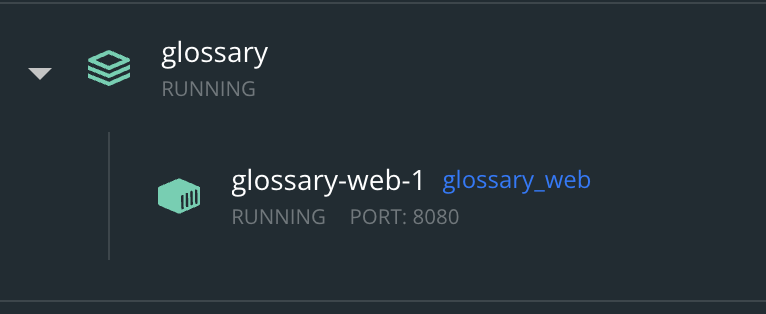
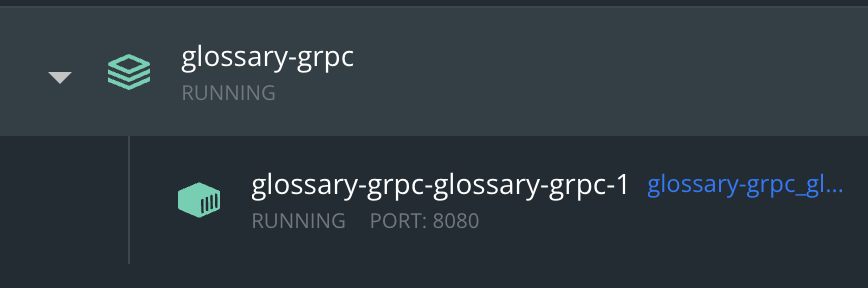
feat: update Readme with images

diff --git a/README.md b/README.md
@@ -1,6 +1,6 @@
-# Глоссарий на FastAPI
+# Глоссарий на gRPC
 
-Этот проект представляет собой REST API для управления глоссарием с использованием FastAPI и SQLite. Он позволяет добавлять, изменять, удалять и получать термины в глоссарии.
+Этот проект представляет собой gRPC для управления глоссарием с использованием gRPC и SQLite. Он позволяет добавлять, изменять, удалять и получать термины в глоссарии.
 
 Использование SQLite позволяет не запускать отдельный контейнер с базой данных
 
@@ -13,10 +13,11 @@
 2. Запустите сервис:
 
 ```bash
-docker compose -p glossary up -d
+docker compose -p glossary-grpc up -d
 ```
 
-Приложение будет доступно по адресу: `http://localhost:8080`
+Приложение будет доступно по адресу: `localhost:8080`
+Запросы к приложение нужно выполнять через grpc, например, используя клиент console_client.py
 
 ## Внутри базы данных
 
@@ -26,11 +27,12 @@ docker compose -p glossary up -d
 
 Приложение поддерживает следующие операции:
 
-- **Получение списка всех терминов**: Возможность просмотра полного перечня терминов, доступных в глоссарии.
-- **Получение информации о конкретном термине**: Поиск и просмотр подробной информации о термине по его ключевому слову.
-- **Добавление нового термина**: Возможность внесения новых терминов в глоссарий с их описанием.
-- **Обновление существующего термина**: Редактирование и обновление данных уже имеющихся терминов.
-- **Удаление термина из глоссария**: Возможность удаления ненужных или устаревших терминов из системы.
+- ListTerms: Получение списка терминов с пагинацией
+- GetTerm: Получение термина по названию
+- CreateTerm: Создание нового термина
+- UpdateTerm: Обновление существующего термина
+- DeleteTerm: Удаление термина
+- SearchTerms: Поиск терминов
 
 ## Работа приложения
 
@@ -42,72 +44,38 @@ Docker Compose успешно запустит приложение:
 
 ![Docker Compose запущен](images/docker-compose-started.png)
 
-## Использование приложения
+### Запросы к приложению через консольный клиент
 
-Все роуты API документированы в Swagger UI.
+#### Создать термин
 
-### Документация API
+![create](images/create.png)
 
-- Swagger UI: [http://localhost:8080/docs](http://localhost:8080/docs)
+#### Поиск терминов по имени
 
-![Swagger UI](images/swagger.png)
+![search](images/search.png)
 
-### Примеры запросов
+#### Список терминов
 
-#### Получение всех терминов
+![getAll](images/getAll.png)
 
-```bash
-curl http://localhost:8080/terms/
-```
+#### Получить термин
 
-![Получение всех терминов](images/get-all.png)
+![getOne](images/getOne.png)
 
-#### Получение конкретного термина
+#### Обновить термин
 
-```bash
-curl http://localhost:8080/terms/Author
-```
+![update](images/update.png)
 
-![Получение конкретного термина](images/get-one.png)
-
-#### Добавление нового термина
-
-```bash
-curl -X POST http://localhost:8080/terms/ \
--H "Content-Type: application/json" \
--d '{"term": "Author", "description": "Создатель приложения - Андрей"}'
-```
-
-![Добавление нового термина](images/add.png)
-
-При попытке добавить уже существующий термин:
-
-![Ошибка добавления термина](images/add-error.png)
-
-#### Обновление термина
-
-```bash
-curl -X PUT http://localhost:8080/terms/Author \
--H "Content-Type: application/json" \
--d '{"description": "Обновлённый термин"}'
-```
-
-![Обновление термина](images/update.png)
-
-#### Удаление термина
-
-```bash
-curl -X DELETE http://localhost:8080/terms/Author
-```
+#### Удалить термин
 
 Успешное удаление:
 
-![Удаление термина](images/delete-ok.png)
+![Удаление термина](images/deleteOk.png)
 
 При попытке удалить несуществующий термин:
 
-![Ошибка удаления термина](images/delete-error.png)
+![Ошибка удаления термина](images/deleteError.png)
 
 ## Заключение
 
-Этот проект предоставляет простой и удобный способ управления глоссарием через REST API. Использование Docker упрощает развёртывание и управление приложением.
+Этот проект предоставляет простой и удобный способ управления глоссарием через gRPC. Использование Docker упрощает развёртывание и управление приложением.
